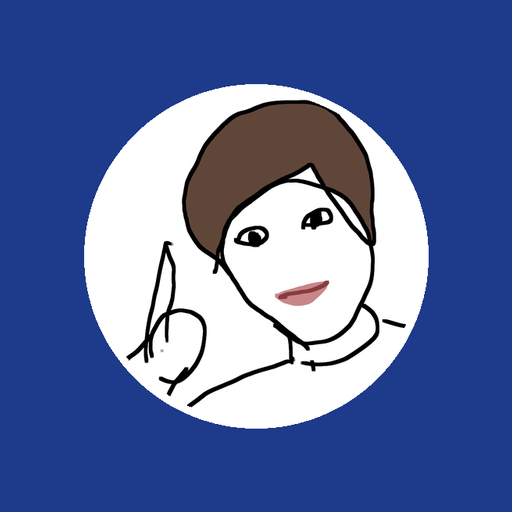
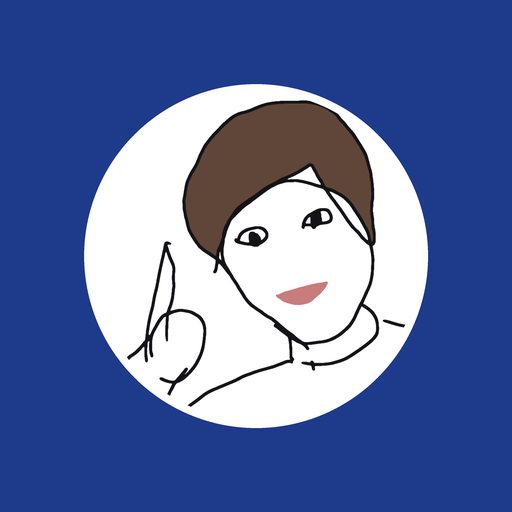
アイコンの線をなめらかに描き直し
Claude-Session: https://claude.ai/code/session_01GkBH6xXLbGBBmqMp44NaEA

diff --git a/sw.js b/sw.js
@@ -1,5 +1,5 @@
 // オフライン用。オンラインのときは常に最新を取りに行き（network-first）、つながらないときはキャッシュを使う。
-const CACHE = 'oretachi-v1';
+const CACHE = 'oretachi-v2';
 const SHELL = [
   './', 'index.html', 'style.css', 'app.js', 'manifest.webmanifest',
   'icons/icon-192.png', 'icons/icon-512.png', 'icons/apple-touch-icon.png', 'icons/favicon-32.png',
